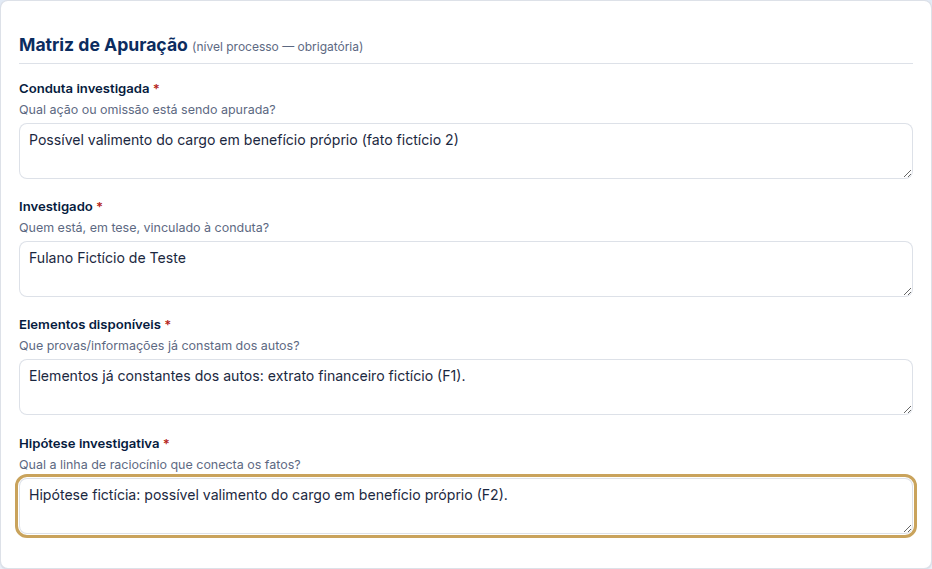
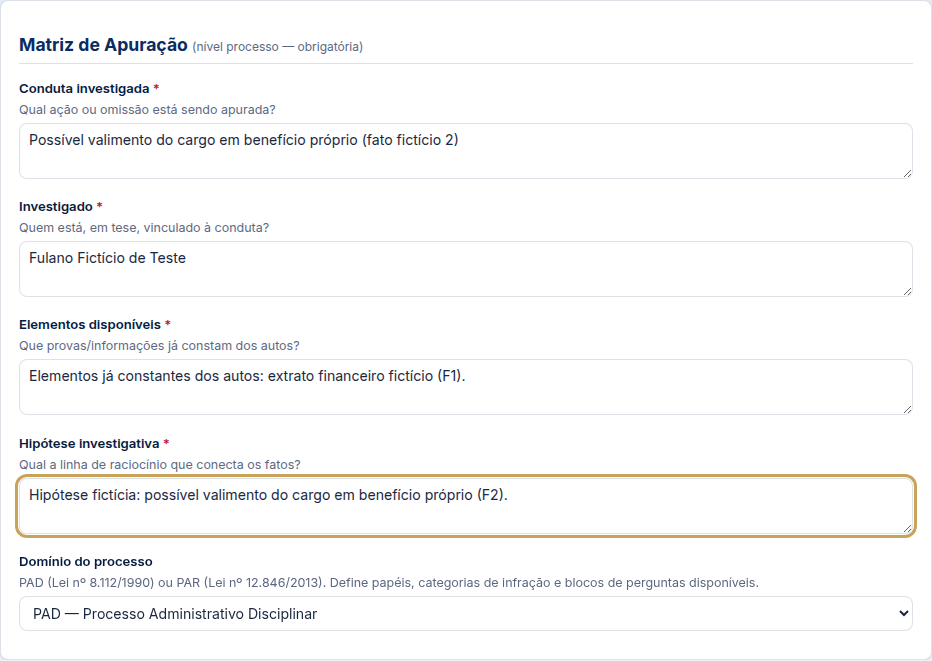
Oitiva 360: tela inicial padrão (Novo/Importar) antes da Matriz de Apuração
Nova seção #tela-inicial (design COGER navy/gold), mostrada uma vez
por carregamento antes de #tela-processo (Matriz de Apuração, que
continua idêntica). Mostra o número do processo salvo (+ contagem de
depoentes) ou estado vazio. "+ Novo processo" leva direto à Matriz
quando não há dados; com dados, abre modal de confirmação completo
(mesmo texto/estrutura do renderModalReiniciar do Veritas) antes de
limpar — reaproveita solicitarNovoProcesso() já existente, agora
compartilhado entre o botão antigo e o novo. "Importar" reaproveita
o input/handler de importação de processo já existentes (distinto
da importação de pauta do Nexo, que fica intocada).

manual/screenshot.js ajustado para clicar "Novo" antes de aguardar
a Matriz, já que ela deixou de ser a primeira tela.

test-fluxo-integrado.js: 127/127, sem regressão.

Claude-Session: https://claude.ai/code/session_019TkBr2ojrYkVdSWfuME47B

Changed region(s): [[0.0, 0.2988, 0.9957, 0.9561], [0.0, 0.0598, 0.9646, 0.2689]]

diff --git a/ferramentas/oitiva-360.html b/ferramentas/oitiva-360.html
@@ -1111,6 +1111,21 @@
 
   .acoes-topo{ display:flex; gap:10px; flex-wrap:wrap; margin-bottom:16px; }
 
+  /* Tela inicial (padrão uniforme da Suíte COGER) */
+  .ti-cartao{ text-align:center; max-width:640px; margin:24px auto; }
+  .ti-eyebrow{ font-size:.72rem; text-transform:uppercase; letter-spacing:.08em; color: var(--cor-texto-suave); font-weight:600; }
+  .ti-titulo{ font-size:1.6rem; margin:8px 0 6px; color: var(--cor-primaria-escura); }
+  .ti-sub{ font-size:.88rem; color: var(--cor-texto-suave); margin:0 auto 18px; max-width:520px; }
+  .ti-acoes{ display:flex; gap:10px; flex-wrap:wrap; justify-content:center; }
+  .ti-processo-atual{
+    border:1px solid var(--cor-destaque); background: var(--cor-alerta-fundo);
+    border-radius: var(--raio); padding:12px 16px; margin-bottom:18px; text-align:left;
+  }
+  .ti-rotulo{ font-size:.72rem; text-transform:uppercase; letter-spacing:.05em; color: var(--cor-texto-suave); font-weight:600; }
+  .ti-numero{ font-size:1.05rem; font-weight:700; color: var(--cor-primaria-escura); margin:2px 0; }
+  .ti-meta{ font-size:.8rem; color: var(--cor-texto-suave); }
+  .ti-vazio{ color: var(--cor-texto-suave); font-style: italic; font-size:.88rem; margin-bottom:18px; }
+
   button, .botao{
     font-family: inherit;
     font-size: .85rem;
@@ -1528,6 +1543,24 @@
     <button type="button" class="etapa" data-etapa="4">4. Revisão e Checklist</button>
   </div>
 
+  <!-- ============================= TELA INICIAL ============================= -->
+  <!-- Padrão uniforme da Suíte COGER (mesmo do Veritas: viewInicio()/renderModalReiniciar()):
+       tela de entrada distinta da Matriz de Apuração, mostrada uma vez por carregamento. Sem
+       estado salvo -> vazio; com estado salvo -> identificador do processo. Os botões reaproveitam
+       as MESMAS rotinas de Novo/Importar/Exportar de PROCESSO já existentes (nada de storage novo). -->
+  <section id="tela-inicial" hidden>
+    <div class="cartao ti-cartao">
+      <div class="ti-eyebrow">Coger/RFB — Divisão de Processos (Dproc)</div>
+      <h2 class="ti-titulo">Oitiva 360</h2>
+      <p class="ti-sub">Apoio a oitivas e interrogatórios — modo dual PAD/PAR. Comece um novo processo ou importe o arquivo <code>.json</code> de um processo já iniciado.</p>
+      <div id="tela-inicial-identificador"></div>
+      <div class="ti-acoes">
+        <button id="btn-inicial-novo" type="button">+ Novo processo</button>
+        <button id="btn-inicial-importar" class="secundario" type="button">Importar processo (.json)</button>
+      </div>
+    </div>
+  </section>
+
   <!-- ============================= TELA DO PROCESSO ============================= -->
   <section id="tela-processo">
 
@@ -1917,6 +1950,21 @@
     <button type="button" class="secundario" id="btn-cancelar-import">Cancelar</button>
     <button type="button" class="secundario" id="btn-abrir-como-novo">Abrir como novo</button>
     <button type="button" id="btn-substituir-import">Substituir</button>
+  </div>
+</dialog>
+
+<!-- Reiniciar / Novo processo com estado salvo — padrão uniforme da Suíte COGER (Veritas: renderModalReiniciar()). -->
+<dialog id="dialogo-reiniciar-inicial">
+  <div class="corpo-dialogo">
+    <h3 style="margin-top:0;">Novo processo</h3>
+    <div id="texto-reiniciar-inicial"></div>
+    <p style="font-size:.85rem;">Reiniciar apaga o processo deste navegador (localStorage) e volta à tela inicial, para começar um novo ou importar outro. <strong>Exporte o .json antes, se ainda precisar destes dados.</strong></p>
+    <div class="aviso-erro">Esta ação não pode ser desfeita — o processo só será recuperável se você tiver exportado o .json antes.</div>
+  </div>
+  <div class="rodape-dialogo">
+    <button type="button" class="secundario" id="btn-cancelar-reiniciar-inicial">Cancelar</button>
+    <button type="button" class="secundario" id="btn-exportar-antes-reiniciar">Exportar .json antes</button>
+    <button type="button" class="perigo" id="btn-confirmar-reiniciar-inicial">Reiniciar mesmo assim</button>
   </div>
 </dialog>
 
@@ -4300,14 +4348,76 @@ document.getElementById("btn-add-vogal").addEventListener("click", () => {
 /* =====================================================================
    Novo processo
    ===================================================================== */
-document.getElementById("btn-novo-processo").addEventListener("click", () => {
-  if (processoTemConteudo(estado) && !confirm("Isso vai descartar os dados do processo atual (não exportado). Deseja continuar?")){
-    return;
+/* --- Tela inicial (padrão uniforme da Suíte COGER) -------------------------
+   Distinta da Matriz de Apuração; exibida uma vez por carregamento. Reaproveita as rotinas de
+   Novo/Importar/Exportar de PROCESSO já existentes — nenhum mecanismo de storage novo. */
+function renderTelaInicial(){
+  const alvo = document.getElementById("tela-inicial-identificador");
+  if (processoTemConteudo(estado)){
+    const num = (estado.processo.numero && estado.processo.numero.trim()) ? estado.processo.numero.trim() : "processo sem número";
+    const nDep = (estado.depoentes || []).length;
+    alvo.innerHTML =
+      "<div class=\"ti-processo-atual\">" +
+        "<div class=\"ti-rotulo\">Processo salvo neste navegador</div>" +
+        "<div class=\"ti-numero\">" + escapeHtml(num) + "</div>" +
+        "<div class=\"ti-meta\">" + nDep + " depoente(s) — continuará carregando automaticamente ao reabrir o navegador.</div>" +
+      "</div>";
+  } else {
+    alvo.innerHTML = "<div class=\"ti-vazio\">Nenhum processo salvo neste navegador. Crie um novo ou importe um arquivo .json.</div>";
   }
+}
+function mostrarTelaInicial(){
+  renderTelaInicial();
+  document.getElementById("tela-inicial").hidden = false;
+  document.getElementById("tela-processo").hidden = true;
+  document.getElementById("tela-wizard-depoente").hidden = true;
+  document.getElementById("stepper-depoente").hidden = true;
+  document.getElementById("secao-kit-incidentes").hidden = true;
+}
+function mostrarTelaProcesso(){
+  document.getElementById("tela-inicial").hidden = true;
+  document.getElementById("tela-processo").hidden = false;
+  document.getElementById("tela-wizard-depoente").hidden = true;
+  document.getElementById("stepper-depoente").hidden = true;
+}
+// Descarta o processo atual e vai direto para a Matriz de Apuração (equivalente ao "Reiniciar" do Veritas).
+function reiniciarParaNovoProcesso(){
   estado = processoVazio();
   salvarLocalStorage();
   renderTudo();
+  mostrarTelaProcesso();
+}
+// "Novo processo": sem conteúdo -> direto à Matriz; com conteúdo -> aviso de confirmação (padrão Veritas).
+function solicitarNovoProcesso(){
+  if (!processoTemConteudo(estado)){
+    reiniciarParaNovoProcesso();
+    return;
+  }
+  const num = (estado.processo.numero && estado.processo.numero.trim()) ? estado.processo.numero.trim() : "sem número";
+  const nDep = (estado.depoentes || []).length;
+  document.getElementById("texto-reiniciar-inicial").innerHTML =
+    "<p style=\"font-size:.85rem;\">Este processo (" + escapeHtml(num) + ") tem " + nDep +
+    " depoente(s) e está salvo neste navegador — reabrir o navegador continuaria carregando-o automaticamente.</p>";
+  document.getElementById("dialogo-reiniciar-inicial").showModal();
+}
+
+document.getElementById("btn-cancelar-reiniciar-inicial").addEventListener("click", () => {
+  document.getElementById("dialogo-reiniciar-inicial").close();
 });
+document.getElementById("btn-exportar-antes-reiniciar").addEventListener("click", () => {
+  exportarProcesso();
+});
+document.getElementById("btn-confirmar-reiniciar-inicial").addEventListener("click", () => {
+  document.getElementById("dialogo-reiniciar-inicial").close();
+  reiniciarParaNovoProcesso();
+});
+
+document.getElementById("btn-inicial-novo").addEventListener("click", solicitarNovoProcesso);
+document.getElementById("btn-inicial-importar").addEventListener("click", () => {
+  document.getElementById("input-importar").click();
+});
+
+document.getElementById("btn-novo-processo").addEventListener("click", solicitarNovoProcesso);
 
 /* =====================================================================
    Adicionar depoente (R1 — matriz obrigatória; elementos buscados obrigatório)
@@ -4365,8 +4475,8 @@ document.getElementById("btn-confirmar-add-depoente").addEventListener("click", 
 /* =====================================================================
    Export / Import do .json do processo (R11 — nunca mesclar)
    ===================================================================== */
-document.getElementById("btn-exportar-processo").addEventListener("click", () => {
-  if (!numeroProcessoPreenchido()) return; // botão já fica desabilitado, dupla checagem
+function exportarProcesso(){
+  if (!numeroProcessoPreenchido()) return false; // número obrigatório para exportar (nome do arquivo)
   const conteudo = JSON.stringify(estado, null, 2);
   const blob = new Blob([conteudo], { type: "application/json" });
   const url = URL.createObjectURL(blob);
@@ -4379,6 +4489,10 @@ document.getElementById("btn-exportar-processo").addEventListener("click", () =>
   a.click();
   document.body.removeChild(a);
   URL.revokeObjectURL(url);
+  return true;
+}
+document.getElementById("btn-exportar-processo").addEventListener("click", () => {
+  exportarProcesso();
 });
 
 document.getElementById("btn-importar-processo").addEventListener("click", () => {
@@ -4437,6 +4551,7 @@ function aplicarImportacao(dados, comoNovo){
   estado.versaoFerramenta = VERSAO_FERRAMENTA;
   salvarLocalStorage();
   renderTudo();
+  mostrarTelaProcesso(); // sai da tela inicial (se estava nela) e mostra o processo importado
 }
 
 document.getElementById("btn-cancelar-import").addEventListener("click", () => {
@@ -6908,6 +7023,7 @@ function init(){
   ligarNavegacaoWizard();
   renderKitIncidentes();
   renderTudo();
+  mostrarTelaInicial(); // padrão uniforme da Suíte COGER: tela de entrada uma vez por carregamento
   validarCatalogo();
 }
 

diff --git a/manual/screenshot.js b/manual/screenshot.js
@@ -275,6 +275,12 @@ async function buildCleanIndiciacaoScenario(page) {
 async function runOitiva(page) {
   console.log('=== Oitiva 360 ===');
   await page.goto(fileUrl(path.join(ROOT, 'ferramentas/oitiva-360.html')));
+  // Oitiva 360 agora abre numa tela inicial (padrão uniforme da Suíte COGER) antes da Matriz de
+  // Apuração. Sem estado salvo, "+ Novo processo" leva direto à Matriz (sem aviso).
+  const telaInicialNovo = page.locator('#btn-inicial-novo');
+  if (await telaInicialNovo.isVisible().catch(() => false)) {
+    await telaInicialNovo.click();
+  }
   await page.waitForSelector('#cartao-matriz');
 
   await page.fill('#campo-conduta', FIXTURE.fatos[1].titulo);

diff --git a/CHANGELOG-catalogo.md b/CHANGELOG-catalogo.md
@@ -548,3 +548,30 @@ A especificação da Rodada 1 menciona um "conjunto canônico de 45 dispositivos
 - Sintaxe: `new Function` sobre o `<script>` → **OK**.
 - `node test-fluxo-integrado.js` → **127/127** (sem regressão; Fluxo PAR 58/58, Validação cruzada 26/26, Fluxo PAD íntegro).
 - Playwright (Chromium 1194): (a) sem estado salvo → `#inicio` visível, `.inicio-estado--vazio` presente, gate escondido; "Novo" vai direto ao gate; (b) com estado salvo (reload) → tela inicial mostra o número; "Novo" abre o modal de confirmação e esconde `#inicio`; **Cancelar** reexibe a tela inicial e **preserva** o número; (c) exemplo (3 fatos/1 ente) → **exportar** gera o .json → **reiniciar** limpa (fatos+entes+numero=0, gate abre) → **reimportar** restaura numero/fatos/entes idênticos (round-trip OK); (d) importar com processo em andamento → dispara o `confirm` "Isto substituirá o rascunho atual. Continuar?". Todos passaram.
+
+## Tela inicial padrão — Oitiva 360
+
+**Objetivo:** uniformizar a entrada do `ferramentas/oitiva-360.html` (apoio a oitivas/interrogatórios, modo dual PAD/PAR) com o padrão de referência do `veritas.html` (`viewInicio()` + `renderModalReiniciar()`): uma tela inicial distinta da Matriz de Apuração, que mostra o processo salvo neste navegador (ou estado vazio) com "Novo processo" e "Importar processo (.json)". Implementado lendo o código real do Oitiva 360; os pontos foram confirmados um a um.
+
+**Diagnóstico (4 pontos confirmados no código real):**
+1. **Ponto de entrada:** `init()` (linha ~6902) fazia `carregarLocalStorage(); … renderTudo();` — a `<section id="tela-processo">` (contendo `.acoes-topo` com os 3 botões e, logo abaixo, o `#cartao-matriz`) ficava **sempre visível** ao carregar. Não havia tela de boas-vindas: a Matriz de Apuração era a primeira coisa substantiva na tela, com os botões `btn-novo-processo`/`btn-importar-processo`/`btn-exportar-processo` num `.acoes-topo` acima dela (não numa tela dedicada). A alternância que já existia era apenas `tela-processo` ↔ `tela-wizard-depoente` (`abrirWizard`/`fecharWizard`).
+2. **Export/import de estado completo:** `btn-exportar-processo` serializava `estado` inteiro para download (`oitiva360_processo_<numero>_<data>.json`, exige número preenchido — `numeroProcessoPreenchido()`); `btn-importar-processo` disparava o `#input-importar` (hidden), cujo handler `change` valida a estrutura (`versaoEsquema`/`processo`/`matriz`/`depoentes`) e, se `processoTemConteudo(estado)`, abre `#dialogo-conflito-import` (Cancelar / Abrir como novo / Substituir), senão chama `aplicarImportacao(dados,false)` direto. **Distinto** da importação de pauta do Nexo (`#input-importar-pauta`/`btn-importar-pauta`), que ficou intocada.
+3. **Aviso antes de descartar:** o handler de `btn-novo-processo` usava só `confirm("Isso vai descartar os dados do processo atual (não exportado). Deseja continuar?")` (texto exato), apenas quando `processoTemConteudo(estado)`. A importação já tinha o `#dialogo-conflito-import` como checagem de substituição.
+4. **Matriz como primeira tela:** confirmado — o gate da Matriz (que bloqueia "Adicionar depoente" via `matrizCompleta()`/`btn-add-depoente` desabilitado até os 4 campos) era exibido de imediato, sem nenhuma tela antes dele.
+
+**Implementação (nenhum storage novo; Matriz, wizards de depoente 1-4, banco de perguntas, checklist e contratos de integração — pauta do Nexo, termo/retorno, validação de domínio PAR-5 — intocados):**
+- Nova `<section id="tela-inicial" hidden>` antes de `#tela-processo`, com um `.cartao.ti-cartao` (mesmo design system COGER: navy/gold, tokens `--cor-*`). Mostra eyebrow + título "Oitiva 360" + subtítulo, um bloco `#tela-inicial-identificador` (número do processo salvo + "N depoente(s)…" quando há estado, ou `.ti-vazio` quando vazio) e os botões `#btn-inicial-novo` ("+ Novo processo") e `#btn-inicial-importar` ("Importar processo (.json)"). CSS novo (`.ti-*`) adicionado após `.acoes-topo`.
+- Funções novas: `renderTelaInicial()` (monta o identificador via `escapeHtml`), `mostrarTelaInicial()`/`mostrarTelaProcesso()` (alternam `#tela-inicial` ↔ `#tela-processo`, mantendo wizard/stepper ocultos), `reiniciarParaNovoProcesso()` (`estado=processoVazio()` + `salvarLocalStorage()` + `renderTudo()` + vai direto à Matriz), `solicitarNovoProcesso()` (sem conteúdo → reinicia direto; com conteúdo → abre o modal).
+- **Modal `#dialogo-reiniciar-inicial`** (mesma infra `<dialog>`/`.corpo-dialogo`/`.rodape-dialogo` já usada), texto/estrutura espelhando `renderModalReiniciar()` do Veritas, adaptado ao vocabulário do Oitiva ("processo"/"depoente"): (1) "Este processo (X) tem N depoente(s) e está salvo neste navegador — reabrir o navegador continuaria carregando-o automaticamente."; (2) "Reiniciar apaga o processo deste navegador (localStorage)… **Exporte o .json antes, se ainda precisar destes dados.**"; alerta (`.aviso-erro`) "Esta ação não pode ser desfeita — o processo só será recuperável se você tiver exportado o .json antes." Botões: **Cancelar** / **Exportar .json antes** / **Reiniciar mesmo assim** (`button.perigo`, destrutivo).
+- **Importar** reaproveita o `#input-importar` e seu handler (a MESMA rotina de estado completo, que já confirma substituição via `#dialogo-conflito-import` se há algo em andamento; se vazio, importa direto).
+- Refatoração mínima: a lógica de exportação virou `exportarProcesso()` (retorna bool), chamada tanto pelo `btn-exportar-processo` quanto pelo "Exportar .json antes" do modal. O handler de `btn-novo-processo` passou a chamar `solicitarNovoProcesso()` (mesmo fluxo do botão da tela inicial). `aplicarImportacao()` ganhou `mostrarTelaProcesso()` no fim (sai da tela inicial após importar). `init()` ganhou `mostrarTelaInicial()` após `renderTudo()` — a tela inicial aparece **uma vez por carregamento**; dela sai-se para a Matriz.
+- `manual/screenshot.js`: `runOitiva` ganhou 4 linhas para clicar "+ Novo processo" (quando visível) antes de esperar `#cartao-matriz`, pois a Matriz agora fica atrás da tela inicial.
+
+**Divergências em relação ao padrão Veritas (justificadas):**
+- Ao confirmar "Novo/Reiniciar", o Oitiva vai **direto à Matriz de Apuração** (não a uma tela vazia), conforme pedido ("Novo leva direto à Matriz"). O texto do modal mantém o tom Veritas ("volta à tela inicial"), pois reiniciar de fato começa um processo em branco.
+- "Exportar .json antes" respeita a regra pré-existente do Oitiva de exigir número preenchido para exportar (`exportarProcesso()` retorna `false` sem número). Não foi relaxada — é constraint de produto do Oitiva, não do Veritas.
+
+**Testes:**
+- Sintaxe: `new Function` sobre o `<script>` → **OK**.
+- `node test-fluxo-integrado.js` → **127/127** (sem regressão).
+- Playwright (Chromium `/opt/pw-browsers/chromium`, script à parte): 11/11 checagens — (a) sem estado salvo → `.ti-vazio` visível, `#tela-processo` oculta; "Novo" vai direto à Matriz sem modal; (b) com estado salvo (reload) → mostra o número; "Novo" abre o modal citando número e depoentes; **Cancelar** preserva o processo; (c) exportar → limpar storage → reimportar em estado vazio restaura os dados direto; (d) importar com processo em andamento → dispara `#dialogo-conflito-import` (substituição), e "Substituir" aplica o processo importado. `manual/screenshot.js` (pipeline de doc) revalidado gerando as capturas do Oitiva sem erro.